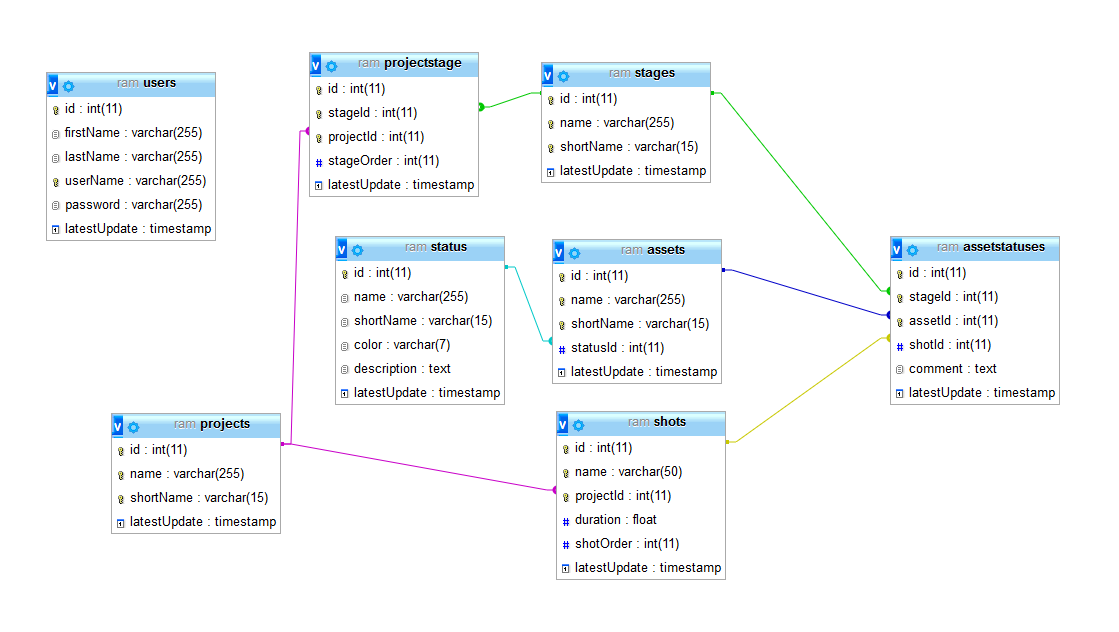
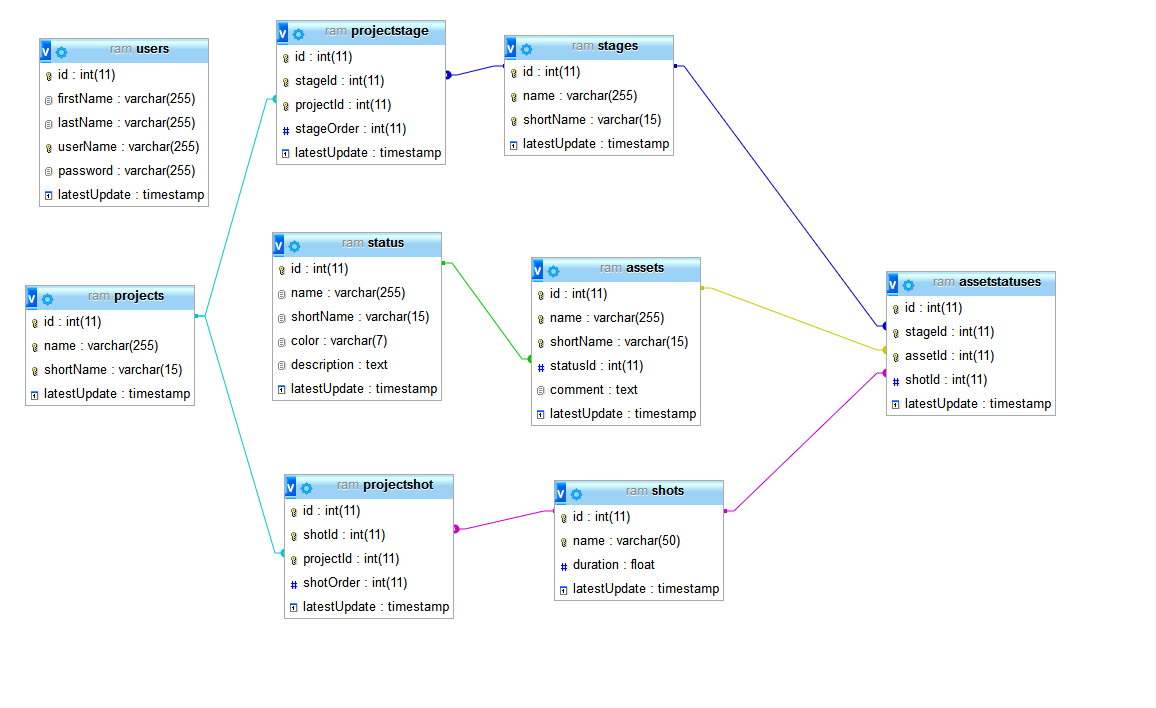
improved shot structure and assignment

diff --git a/REST server/shots.php b/REST server/shots.php
@@ -21,7 +21,7 @@
 			if (!isset($shotOrder)) $shotOrder = 0;
 
 			//update order of shots after the ones we insert
-			$qOrder = "UPDATE shots SET shotOrder = shotOrder + " . count($shots) . " WHERE shotOrder >= " . $shotOrder . " ;";
+			$qOrder = "UPDATE shots JOIN projectshot ON projectshot.shotId = shots.id  SET projectshot.shotOrder = projectshot.shotOrder + " . count($shots) . " WHERE projectshot.shotOrder >= " . $shotOrder . " ;";
 
 			try
 			{
@@ -38,20 +38,30 @@
 			if (isset($repOrder))
 			{
 				//construct add shots query
-				$qShots = "INSERT INTO shots (id,name,projectId,shotOrder,duration) VALUES ";
-				$reply["message"] = $qShots;
+				$qShots = "INSERT INTO shots (id,name,duration) VALUES ";
 
 				$first = true;
-				$order = (int)$shotOrder;
 				foreach($shots as $shot)
 				{
 					if (!$first) $qShots = $qShots . ",";
-					$qShots = $qShots . "('" . $shot->{'id'} . "','" . $shot->{'name'} . "'," . $projectId . "," . $order . "," . $shot->{'duration'} . ")";
-					$order = $order + 1;
+					$qShots = $qShots . "(" . $shot->{'id'} . ",'" . $shot->{'name'} . "'," . $shot->{'duration'} . ")";
 					$first = false;
 				}
 
-				$qShots = $qShots . " ON DUPLICATE KEY UPDATE duration = VALUES(duration);";
+				$qShots = $qShots . " ON DUPLICATE KEY UPDATE duration = VALUES(duration);\n";
+
+				//add assignment query
+				$qShots = $qShots . "INSERT INTO projectshot (shotId,projectId,shotOrder) VALUES ";
+
+				$order = (int)$shotOrder;
+				$first = true;
+				foreach($shots as $shot)
+				{
+					if (!$first) $qShots = $qShots . ",";
+					$qShots = $qShots . "(" . $shot->{'id'} . "," . $projectId . "," . $order . ")";
+					$order = $order + 1;
+					$first = false;
+				}
 
 				//add shots
 				try
@@ -64,7 +74,7 @@
 				}
 				catch (Exception $e)
 				{
-					$reply["message"] = "Server issue: SQL Query failed adding shots. |\n" . $qShots;
+					$reply["message"] = "Server issue: SQL Query failed adding shots. |\n" . $qShots ;
 					$reply["success"] = false;
 				}
 			}
@@ -89,7 +99,7 @@
 			$projectId = $data->{'projectId'};
 		}
 
-		$q = "SELECT shots.name as shotName,shots.duration,shots.id as shotId,shots.shotOrder FROM shots WHERE projectId= :projectId ORDER BY shots.shotOrder,shots.name;";
+		$q = "SELECT shots.name as shotName,shots.duration,shots.id as shotId,projectshot.shotOrder as shotOrder FROM shots JOIN projectshot ON projectshot.shotId = shots.id WHERE projectId= :projectId ORDER BY projectshot.shotOrder,shots.name;";
 
 		try
 		{
@@ -224,7 +234,7 @@
 			$qString = "";
 			foreach($ids as $id)
 			{
-				$qString = $qString . "UPDATE shots SET shotOrder = " . $shotOrder . " WHERE id = " . $id . ";\n";
+				$qString = $qString . "UPDATE projectshot SET shotOrder = " . $shotOrder . " WHERE shotId = " . $id . ";\n";
 				$shotOrder = $shotOrder + 1;
 			}
 
@@ -270,7 +280,7 @@
 			foreach($ids as $id)
 			{
 				//get this shot order and the order just before
-				$qOrders = "SELECT shotOrder,id FROM shots WHERE shotOrder <= (SELECT shotOrder FROM shots WHERE id=" . $id . ") ORDER BY shotOrder DESC;";
+				$qOrders = "SELECT shotOrder,id FROM projectshot WHERE shotOrder <= (SELECT shotOrder FROM projectshot WHERE shotId=" . $id . ") ORDER BY shotOrder DESC;";
 
 				try
 				{
@@ -279,8 +289,8 @@
 					$orderBefore = $repOrder->fetch();
 					$repOrder->closeCursor();
 
-					$q = $q . "UPDATE shots SET shotOrder=" . $orderCurrent["shotOrder"] . " WHERE id=" . $orderBefore['id'] . ";\n";
-					$q = $q . "UPDATE shots SET shotOrder=" . $orderBefore["shotOrder"] . " WHERE id=" . $orderCurrent['id'] . ";\n";
+					$q = $q . "UPDATE projectshot SET shotOrder=" . $orderCurrent["shotOrder"] . " WHERE id=" . $orderBefore['id'] . ";\n";
+					$q = $q . "UPDATE projectshot SET shotOrder=" . $orderBefore["shotOrder"] . " WHERE id=" . $orderCurrent['id'] . ";\n";
 
 					$rep = $bdd->query($q);
 					$rep->closeCursor();
@@ -324,7 +334,7 @@
 			foreach($ids as $id)
 			{
 				//get this shot order and the order just before
-				$qOrders = "SELECT shotOrder,id FROM shots WHERE shotOrder >= (SELECT shotOrder FROM shots WHERE id=" . $id . ") ORDER BY shotOrder ASC;";
+				$qOrders = "SELECT shotOrder,id FROM projectshot WHERE shotOrder >= (SELECT shotOrder FROM shots WHERE shotId=" . $id . ") ORDER BY shotOrder ASC;";
 
 				try
 				{
@@ -335,8 +345,8 @@
 
 					if (count($orderAfter) > 0 AND count($orderCurrent) > 0)
 					{
-						$q = $q . "UPDATE shots SET shotOrder=" . $orderCurrent["shotOrder"] . " WHERE id=" . $orderAfter['id'] . ";\n";
-						$q = $q . "UPDATE shots SET shotOrder=" . $orderAfter["shotOrder"] . " WHERE id=" . $orderCurrent['id'] . ";\n";
+						$q = $q . "UPDATE projectshot SET shotOrder=" . $orderCurrent["shotOrder"] . " WHERE id=" . $orderAfter['id'] . ";\n";
+						$q = $q . "UPDATE projectshot SET shotOrder=" . $orderAfter["shotOrder"] . " WHERE id=" . $orderCurrent['id'] . ";\n";
 
 						$rep = $bdd->query($q);
 						$rep->closeCursor();
